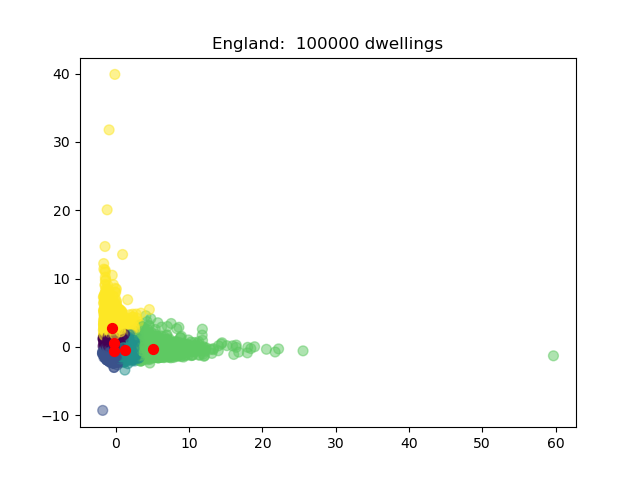
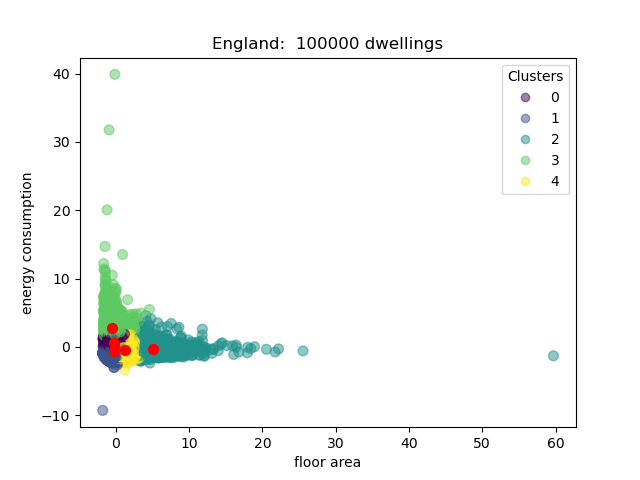
adding labels for x and y axes (kmeans, kmedoids)

diff --git a/src/at/uibk/epc/clustering/kmeans/clustering_per_country.py b/src/at/uibk/epc/clustering/kmeans/clustering_per_country.py
@@ -70,12 +70,19 @@ def clusering_kmeans(k_clusters, country, dbData, queryThermalDataFields):
     # plt.scatter(slim_data_df['ratedDwelling_spatialData_totalFloorArea_value'],
     #            slim_data_df['ratedDwelling_thermalData_finalEnergyDemand_value'], c=kmeans.labels_.astype(float), s=50, alpha=0.5)
 
-    plt.scatter(slim_fitted_df[:, 0],
-                slim_fitted_df[:, 1], c=kmeans.labels_.astype(float), s=50, alpha=0.5)
+    scatter = plt.scatter(slim_fitted_df[:, 0],
+                          slim_fitted_df[:, 1], c=kmeans.labels_.astype(float), s=50, alpha=0.5)
 
     plt.scatter(centroids[:, 0], centroids[:, 1], c='red', s=50)
+    plt.xlabel("floor area")
+    plt.ylabel("energy consumption")
     plt.title(country + ":  " +
-              str(len(slim_fitted_df)+1) + " dwellings")
+              str(len(slim_fitted_df) + 1) + " dwellings")
+
+    # https://matplotlib.org/3.1.1/gallery/lines_bars_and_markers/scatter_with_legend.html#sphx-glr-gallery-lines-bars-and-markers-scatter-with-legend-py
+    # produce a legend with the unique colors from the scatter
+    plt.legend(*scatter.legend_elements(),
+               loc='upper right', title="Clusters")
     # plt.show()
 
     path = Path(os.path.abspath(__file__))

diff --git a/src/at/uibk/epc/clustering/kmedoids/kmedoids_clustering_per_country.py b/src/at/uibk/epc/clustering/kmedoids/kmedoids_clustering_per_country.py
@@ -50,13 +50,20 @@ def kmedoids_clustering(country, dbData, thermalFields, clusters):
     print("predictions")
     print(kmedoids.predict([[-0.98965, -0.3211], [0.6, -0.300]]))
 
-    plt.scatter(slim_fitted_df[:, 0],
-                slim_fitted_df[:, 1], c=kmedoids.labels_.astype(float), s=50, alpha=0.5)
+    scatter = plt.scatter(slim_fitted_df[:, 0],
+                          slim_fitted_df[:, 1], c=kmedoids.labels_.astype(float), s=50, alpha=0.5)
 
     centroids = kmedoids.cluster_centers_
     plt.scatter(centroids[:, 0], centroids[:, 1], c='red', s=50)
+
+    plt.xlabel("floor area")
+    plt.ylabel("energy consumption")
+
     plt.title(country + ":  " +
-              str(len(slim_data_df)+1) + " dwellings")
+              str(len(slim_data_df) + 1) + " dwellings")
+
+    plt.legend(*scatter.legend_elements(),
+               loc='upper right', title="Clusters")
 
     here = os.path.dirname(os.path.abspath(__file__))
 

diff --git a/src/at/uibk/epc/clustering/kmeans/db_data_per_country.py b/src/at/uibk/epc/clustering/kmeans/db_data_per_country.py
@@ -7,6 +7,11 @@ def getRawData(country, connectionString, queryThermalDataFields, queryLimit):
 
     client = MongoClient(connectionString)
     db = client['EPC']
+
+    # workaround for typo in db name
+    if (country == 'Scotland'):
+        country = 'Scottland'
+
     collection = db.get_collection('EPC_' + country.capitalize())
 
     print(collection.full_name)

diff --git a/src/at/uibk/epc/clustering/kmedoids/db_data_per_country.py b/src/at/uibk/epc/clustering/kmedoids/db_data_per_country.py
@@ -7,6 +7,11 @@ def getRawData(country, connectionString, queryThermalDataFields, queryLimit):
 
     client = MongoClient(connectionString)
     db = client['EPC']
+
+    # workaround for typo in db name
+    if (country == 'Scotland'):
+        country = 'Scottland'
+
     collection = db.get_collection('EPC_' + country.capitalize())
 
     print(collection.full_name)
